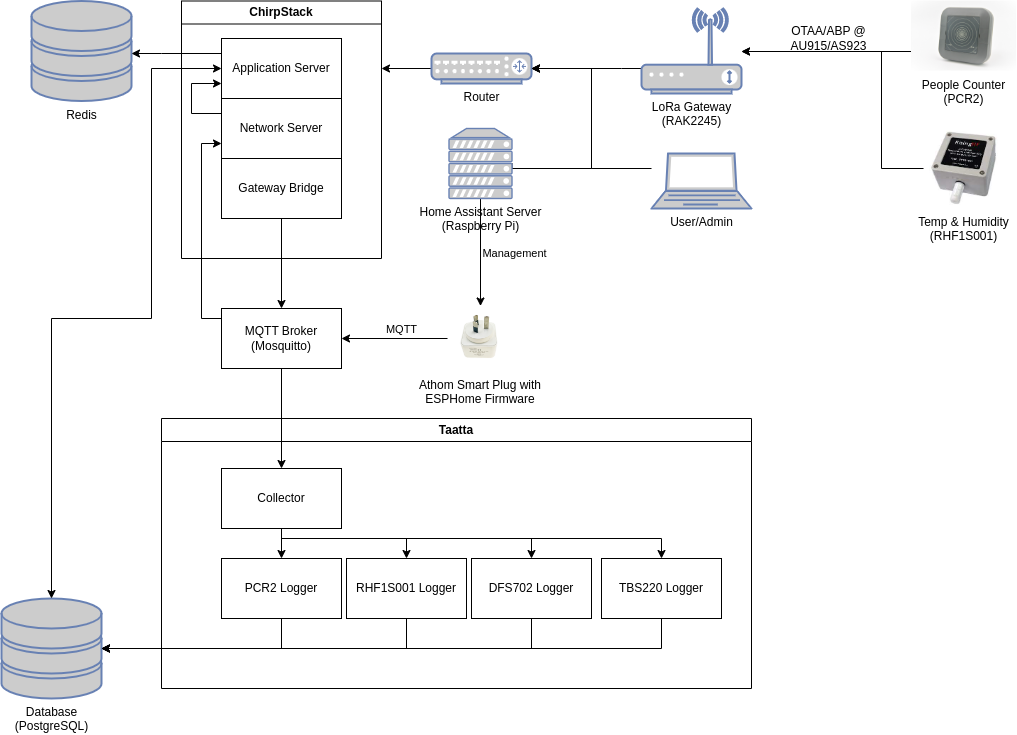
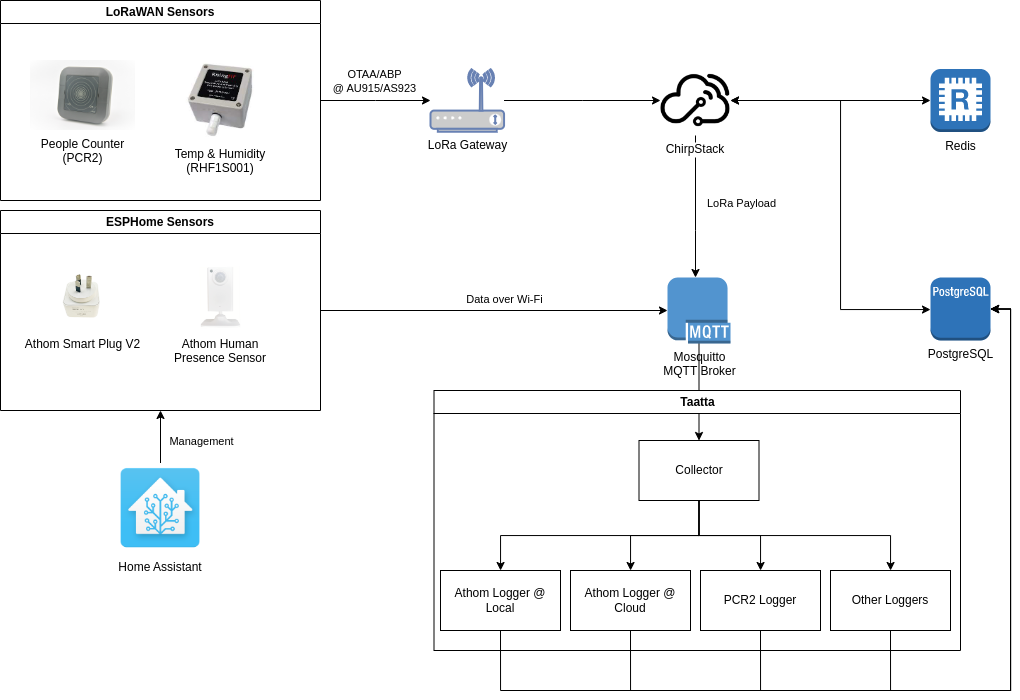
Mention multiple db in README and revamp architecture diagram

diff --git a/README.md b/README.md
@@ -1,27 +1,27 @@
 # Taatta
 
 [![GitHub Workflow Status](https://img.shields.io/github/actions/workflow/status/MonashSmartCityLivingLab/taatta/ci.yml?style=flat-square)](https://github.com/MonashSmartCityLivingLab/taatta/actions/workflows/ci.yml)
-[![GitHub](https://img.shields.io/github/license/MonashSmartCityLivingLab/taatta?style=flat-square)](LICENSE)
+[![License](https://img.shields.io/github/license/MonashSmartCityLivingLab/taatta?style=flat-square)](LICENSE)
 
 A data logger for IoT devices and smart sensors that publish their data using MQTT.
 
 ## Architecture
 
-The system adopts a microservices architecture, consisting of a collector module and a writer module for each sensor
+The system adopts a microservices architecture, consisting of a collector module and a logger module for each sensor
 type. This enables you to run multiple instances of the modules as well as easily add and expand the modules. Each
 module is a Spring Boot application, written in Java or Kotlin. A collector module subscribes MQTT topics from the
-broker and then sends it to the sensor module which then writes it to the database (currently PostgreSQL).
+broker and then sends it to the logger module which then writes it to the database (currently PostgreSQL).
 
 ![Taatta architecture](docs/images/architecture.png)
 
-## Supported sensors
+## Supported sensors and devices
 
 - LoRaWAN sensors (via [ChirpStack](https://chirpstack.io/))
     - [PCR2](pcr2/README.md) people counter
     - [TBS220](tbs220/README.md) parking sensor
     - [DF702](df702/README.md) bin sensor
     - [RHF1S001](rhf1s001/README.md) temperature and humidity sensor
-- ESPHome-based appliances
+- ESPHome-based devices
     - [Athom Smart Plug V2](athom-smart-plug/README.md)
 
 ## Development
@@ -35,7 +35,7 @@ broker and then sends it to the sensor module which then writes it to the databa
 ### Building
 
 1. Clone the repository
-2. Run `./mvnw -e package spring-boot:repackage` (macOS/Linux) or `.\mvnw.cmd -e package spring-boot:repackage` 
+2. Run `./mvnw -e package spring-boot:repackage` (macOS/Linux) or `.\mvnw.cmd -e package spring-boot:repackage`
    (Windows) to build
 
 The output .jar files are located in `<module_name>/target/<module_name>-<version>.jar`.
@@ -44,17 +44,19 @@ The output .jar files are located in `<module_name>/target/<module_name>-<versio
 
 ### Docker
 
-This is the easiest way to deploy Taatta as it also deploys and sets up PostgreSQL, Mosquitto and ChirpStack for you.
+This is the fastest and easiest way to deploy Taatta as it also deploys and sets up PostgreSQL, Mosquitto and ChirpStack
+for you.
 
 You will need to have [Docker](https://docs.docker.com/get-docker/)
 and [Docker Compose](https://docs.docker.com/compose/install/) installed.
 
-1. Copy the environment variable file `.env.examle` to `.env`
+1. Copy the environment variable file `.env.example` to `.env`
 2. review the `.env` file values
     - The hostnames and port numbers are already set up, but you should change the Postgres and Mosquitto passwords,
       especially for production instances
 3. Review the Mosquitto and ChirpStack configuration at `configuration` directory
-    - For example, you might want change the LoRa frequency for ChirpStack, or allow unauthenticated MQTT connections
+    - For example, you might want change the LoRa frequency for ChirpStack, or allow unauthenticated MQTT connections 
+      for Mosquitto 
 4. Deploy the containers:
 
 ```shell
@@ -141,6 +143,23 @@ To permanently stop service:
 ```shell
 sudo systemctl disable --now <service_name>.service
 ```
+
+## Logging across devices
+
+It is possible to log the data to multiple databases across different devices. You can do this by adding URLs to the
+`hostnames` field for each sensor in `sensorRouters.json`. We recommend running only one collector which subscribes to
+MQTT broker on the local side, and then run each sensor's logger module on each device. Here's an example setup for a
+logger on local network and on a cloud server:
+
+![Example logging to a cloud server](docs/images/local-remote.png)
+
+If you run the logger over the internet (e.g. in the cloud), we also recommend using a reverse proxy to minimise the
+number of open ports, and to allow easy HTTPS setup. A basic Nginx reverse proxy configuration is available
+in [`taatta.nginx`](taatta.nginx).
+
+One weakness to this approach is that the databases aren't synchronised, so the databases will slowly diverge from each
+other when the data can't be sent to the remote logger. You might want to use some sort of DB replication setup instead,
+but that's beyond the scope of this project.
 
 ## Acknowledgements
 

diff --git a/athom-smart-plug/README.md b/athom-smart-plug/README.md
@@ -15,7 +15,8 @@ mqtt:
   password: !secret mqtt_password
 ```
 
-Where `broker_address` is the IP address of your MQTT broker.
+Where `broker_address` is the IP address of your MQTT broker. You'll need to add `mqtt_username` and `mqtt_password` in 
+the ESPHome secrets configuration.
 
 You can edit the yml file if you add the plug to Home Assistant.
 
@@ -24,7 +25,8 @@ More information can be found in the [ESPHome documentation](https://esphome.io/
 ### Trips and tricks
 
 If you get 'not enough space' error when updating the yml file, comment out the MQTT part, install the config, uncomment
-them back, and then install again.
+them back, and then install again. This is more convenient than the 'official' solution which is to flash the plug with
+mini firmware and redoing the Wi-Fi setup before installing our configuration.
 
 To save the trouble of debugging and resetting the device, always validate your updated configuration before installing
 them.
